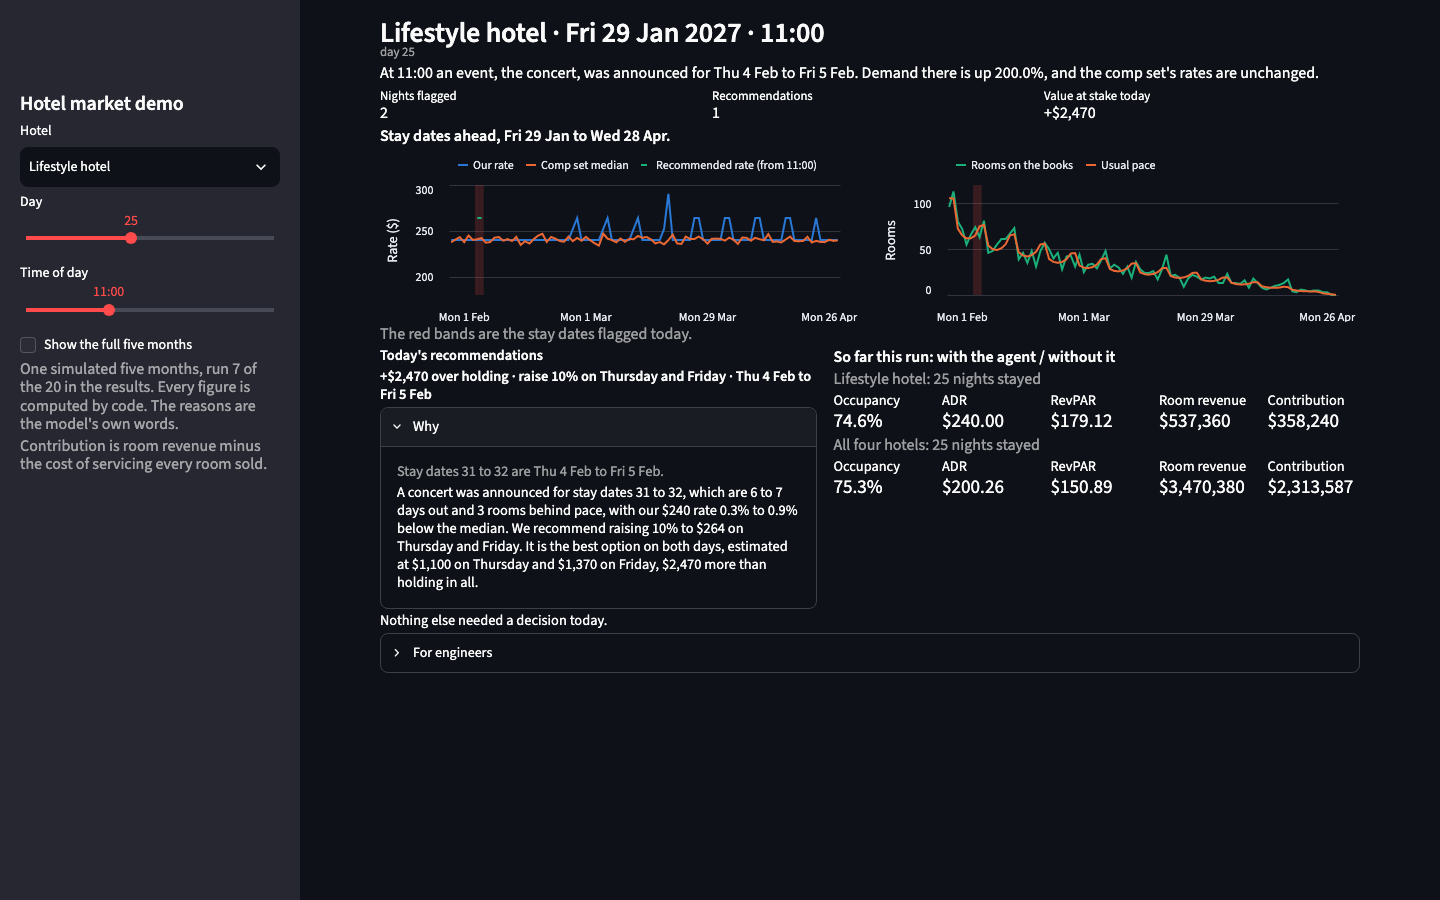
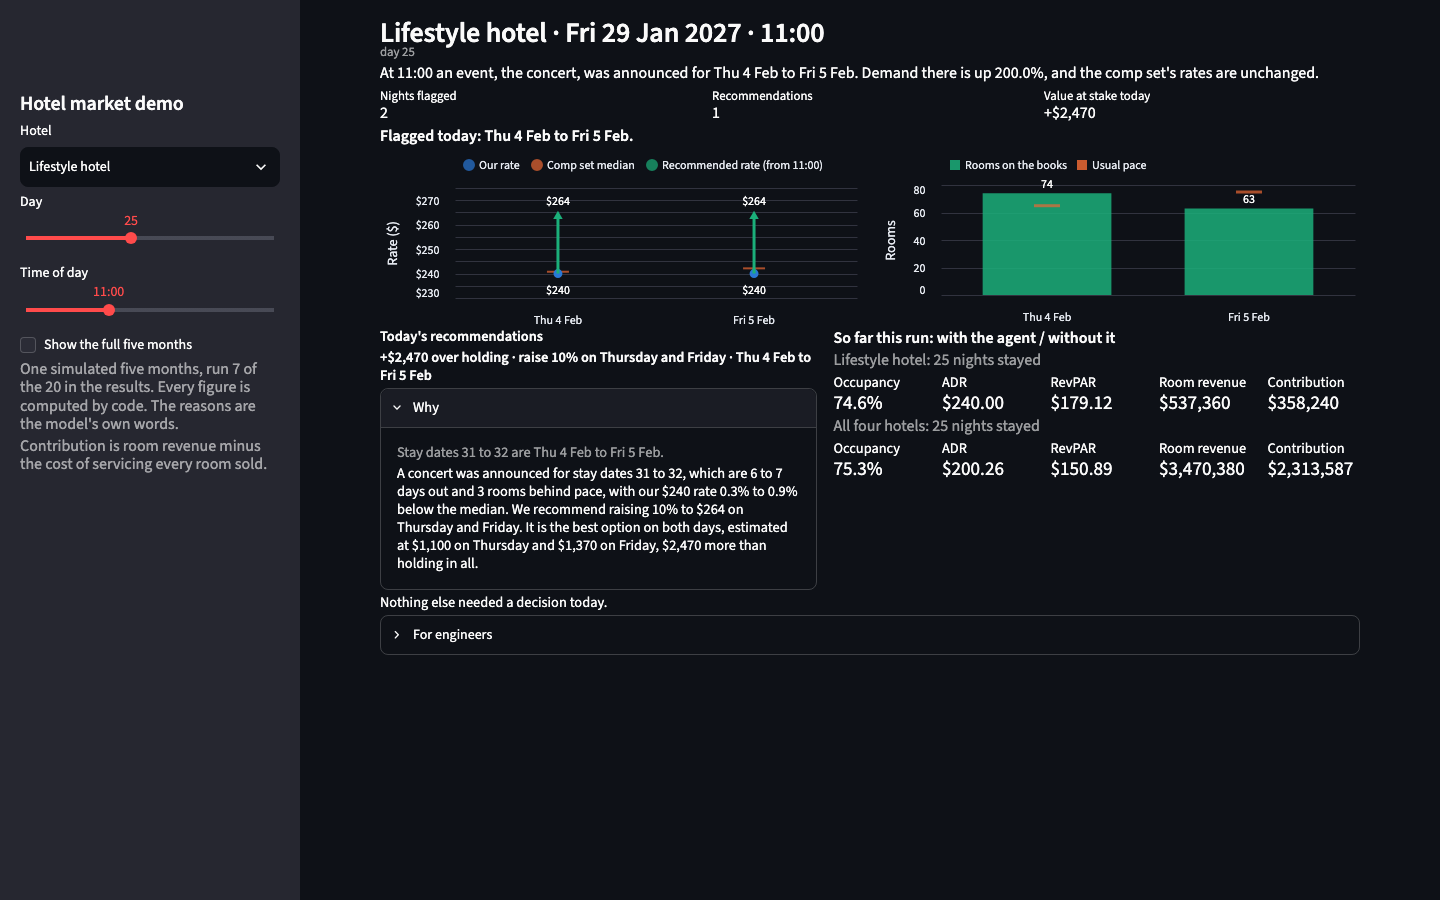
Chart only the nights flagged today, with fitted axes
Both charts now show the nights the day's news touched, or the next two
weeks on a quiet day. Rates are dots or lines with an arrow to each
recommended rate, and rooms are bars against the usual pace.

Changed region(s): [[0.25, 0.1244, 0.9375, 0.7467]]

diff --git a/src/hotel_market/demo_page.py b/src/hotel_market/demo_page.py
@@ -10,8 +10,10 @@ imports anything from the package or does arithmetic on a figure. The sidebar pi
 one day, and the query string can name them (?hotel=convention&day=10). The sidebar also says
 which of the results' runs this is, marks the stand-in's reasons when the file holds any, and
 defines contribution. Under the title and the day's number come what became known that day and
-three tiles: the nights flagged, the recommendations and their value at stake together. The page
-then shows the stay dates ahead as two charts side by side, the day's recommendations and the
+three tiles: the nights flagged, the recommendations and their value at stake together. Two
+charts follow, side by side, for the nights flagged so far that day, or the next two weeks when
+none was: our rate, the comp set median and each recommended change as an arrow, and the rooms
+on the books as bars against the usual pace. Then come the day's recommendations and the
 scorecard: the nights already stayed for the hotel and for all the hotels together. Each
 recommendation is one line led by its value at stake. Where the stored request listed the
 hotel's earlier changes on a plan's stay dates, the next line shows them under "Since our last
@@ -52,6 +54,8 @@ PLOT_HEIGHTS = {
     "small": 50,
 }  # the plot areas, in pixels: a stay-date chart, the small line
 AXIS_LABEL_SIZE = 12  # the axes' tick labels, in points
+_NEXT_NIGHTS = 14  # the nights the charts show on a day that flagged none
+_LABELLED_NIGHTS = 7  # up to this many nights, the charts print each value
 TILE_SIZES = {
     "compact": (0.75, 1.1),
     "large": (0.9, 1.2),
@@ -137,7 +141,7 @@ def _axis(order: list[str], ticks: list[str]) -> alt.X:
             labelOverlap=True,
             labelSeparation=8,
         ),
-        scale=alt.Scale(paddingInner=0, paddingOuter=0),
+        scale=alt.Scale(paddingInner=0.25, paddingOuter=0.15),
     )
 
 
@@ -146,13 +150,15 @@ def _y(field: str, title: str | None, **axis) -> alt.Y:
     return alt.Y(field, title=title, axis=alt.Axis(labelFontSize=AXIS_LABEL_SIZE, **axis))
 
 
-def _legend(label_expr: str | None = None, orient: str = "top") -> alt.Legend:
+def _legend(
+    label_expr: str | None = None, orient: str = "top", symbol: str = "stroke"
+) -> alt.Legend:
     """A legend above the plot, off the lines, with stroke symbols that show a dash. Its labels are
     the axes' size, so "Recommended rate (from 11:00)" fits beside the other two."""
     legend = alt.Legend(
         orient=orient,
         title=None,
-        symbolType="stroke",
+        symbolType=symbol,
         symbolStrokeWidth=2,
         offset=6,
         labelLimit=240,
@@ -282,7 +288,7 @@ def main() -> None:
         tiles[1].metric("Recommendations", strip["recommendations"])
         tiles[2].metric("Value at stake today", strip["value_at_stake"])
 
-    # ---- the stay dates ahead -------------------------------------------------------------------
+    # ---- the nights today's news touched --------------------------------------------------------
     stays = rows(
         "SELECT stay_day, label, tick, rate, comp_median, rooms_on_books, pace, flagged, "
         "causes, flag, planned_rate, decided_at FROM stay_dates WHERE as_of_day = ? AND hotel = ? "
@@ -291,79 +297,133 @@ def main() -> None:
         key,
         tick,
     )
-    axis = _axis(stays["label"].tolist(), stays.loc[stays["tick"], "label"].tolist())
     flagged = stays.loc[stays["flagged"]]
-    planned = stays.loc[stays["planned_rate"].notna()].assign(line="planned_rate")
-    marks = (
-        alt.Chart(flagged)
-        .mark_rect(color=COLORS["red"], opacity=0.2)
-        .encode(x=axis, tooltip=[alt.Tooltip("label:N", title="Flagged"), "causes:N"])
-    )
-    # The planned rate joins the lines and the legend only on a day with an accepted plan.
-    rate_lines = {
-        "rate": ("Our rate", "blue", [1, 0]),
-        "comp_median": ("Comp set median", "orange", [1, 0]),
-    }
-    if not planned.empty:
-        decided_at = planned.iloc[0]["decided_at"]  # "14:00" on a finer clock, else empty
-        label = f"Recommended rate (from {decided_at})" if decided_at else "Recommended rate"
-        rate_lines["planned_rate"] = (label, "aqua", [6, 4])
-    rate_series = _series(rate_lines)
-    dollars = _y("dollars:Q", "Rate ($)")
-    dollars["scale"] = alt.Scale(
-        domain=[float(hotel["rate_axis_low"]), float(hotel["rate_axis_high"])]
-    )
+    # The charts show the nights flagged so far today, so the day's change fills them; a day that
+    # flagged none shows the next two weeks.
+    shown = stays.head(_NEXT_NIGHTS) if flagged.empty else flagged
+    labels = shown["label"].tolist()
+    span = labels[0] if len(labels) == 1 else f"{labels[0]} to {labels[-1]}"
+    few = len(labels) <= _LABELLED_NIGHTS  # few enough nights to mark and print each one
+    axis = _axis(labels, labels)
+    planned = shown.loc[shown["planned_rate"].notna()]
+    moved = planned.loc[planned["planned_rate"] != planned["rate"]]  # the nights a plan changes
     stay_date = alt.Tooltip("label:N", title="Stay date")
-    rates = (
-        alt.Chart(stays)
-        .transform_fold(["rate", "comp_median"], as_=["line", "dollars"])
-        .mark_line(strokeWidth=2, clip=True)
-        .encode(
-            x=axis,
-            y=dollars,
-            tooltip=[stay_date, alt.Tooltip("dollars:Q", format="$,.0f")],
-            **rate_series,
+    money = {"format": "$,.0f"}
+    # Our rate and the market's median, as dots and dashes on a few nights and as lines on many,
+    # and each recommended change as an arrow from our rate to the new one. The axis fits the
+    # nights, with room above and below, so a 5% move shows.
+    names = {"rate": "Our rate", "comp_median": "Comp set median"}
+    if not moved.empty:  # once the rate has moved, our rate shows it and the arrow goes
+        decided_at = moved.iloc[0]["decided_at"]  # "14:00" on a finer clock, else empty
+        names["planned_rate"] = (
+            f"Recommended rate (from {decided_at})" if decided_at else "Recommended rate"
         )
+    colors = {"rate": "blue", "comp_median": "orange", "planned_rate": "aqua"}
+    series = alt.Color(
+        "series:N",
+        scale=alt.Scale(domain=list(names.values()), range=[COLORS[colors[key]] for key in names]),
+        legend=_legend(symbol="circle"),
     )
-    layers = [marks, rates]
-    if not planned.empty:
-        layers.append(
-            alt.Chart(planned)
-            .mark_line(strokeWidth=2, clip=True)
-            .encode(
-                x=axis,
-                y=_y("planned_rate:Q", "Rate ($)"),
-                detail="flag:N",
-                tooltip=[
-                    stay_date,
-                    alt.Tooltip("planned_rate:Q", title="Planned", format="$,.0f"),
-                ],
-                **rate_series,
+    dollars = alt.Y(
+        "rate:Q",
+        title="Rate ($)",
+        scale=alt.Scale(zero=False, nice=True, padding=20),
+        axis=alt.Axis(labelFontSize=AXIS_LABEL_SIZE, tickCount=8, **money),
+    )
+    ours = alt.Chart(shown.assign(series=names["rate"]))
+    market = alt.Chart(shown.assign(series=names["comp_median"]))
+    our_tip = [stay_date, alt.Tooltip("rate:Q", title="Our rate", **money)]
+    market_tip = [stay_date, alt.Tooltip("comp_median:Q", title="Comp set median", **money)]
+    if few:
+        layers = [
+            market.mark_tick(thickness=2, size=22).encode(
+                x=axis, y=alt.Y("comp_median:Q"), color=series, tooltip=market_tip
+            ),
+            ours.mark_point(filled=True, size=80, opacity=1).encode(
+                x=axis, y=dollars, color=series, tooltip=our_tip
+            ),
+            ours.mark_text(dy=16, fontSize=AXIS_LABEL_SIZE, color="white").encode(
+                x=axis, y=alt.Y("rate:Q"), text=alt.Text("rate:Q", **money)
+            ),
+        ]
+    else:
+        layers = [
+            market.mark_line(strokeWidth=1.5, opacity=0.8).encode(
+                x=axis, y=alt.Y("comp_median:Q"), color=series, tooltip=market_tip
+            ),
+            ours.mark_line(strokeWidth=2.5).encode(
+                x=axis, y=dollars, color=series, tooltip=our_tip
+            ),
+        ]
+    if not moved.empty:
+        chosen = alt.Chart(moved.assign(series=names["planned_rate"]))
+        layers.extend(
+            [
+                chosen.mark_rule(strokeWidth=3).encode(
+                    x=axis, y="rate:Q", y2="planned_rate:Q", color=series
+                ),
+                chosen.mark_point(filled=True, size=90, shape="triangle-up", opacity=1).encode(
+                    x=axis,
+                    y=alt.Y("planned_rate:Q"),
+                    color=series,
+                    tooltip=[
+                        stay_date,
+                        alt.Tooltip("rate:Q", title="Our rate", **money),
+                        alt.Tooltip("planned_rate:Q", title="Recommended", **money),
+                    ],
+                ),
+            ]
+        )
+        if few:
+            layers.append(
+                chosen.mark_text(dy=-14, fontSize=AXIS_LABEL_SIZE, color="white").encode(
+                    x=axis, y=alt.Y("planned_rate:Q"), text=alt.Text("planned_rate:Q", **money)
+                )
+            )
+    # The rooms on the books as bars, and the usual pace by now as a dash on each bar on a few
+    # nights and as a line on many.
+    kinds = {"rooms_on_books": "Rooms on the books", "pace": "Usual pace"}
+    paced = alt.Color(
+        "series:N",
+        scale=alt.Scale(domain=list(kinds.values()), range=[COLORS["aqua"], COLORS["orange"]]),
+        legend=_legend(symbol="square"),
+    )
+    rooms_y = alt.Y(
+        "rooms_on_books:Q",
+        title="Rooms",
+        scale=alt.Scale(domainMin=0, nice=True),
+        axis=alt.Axis(labelFontSize=AXIS_LABEL_SIZE, tickCount=5),
+    )
+    booked = alt.Chart(shown.assign(series=kinds["rooms_on_books"]))
+    pace = alt.Chart(shown.assign(series=kinds["pace"]))
+    pace_tip = [stay_date, alt.Tooltip("pace:Q", title="Usual pace", format=",.0f")]
+    rooms = [
+        booked.mark_bar(opacity=0.85).encode(
+            x=axis,
+            y=rooms_y,
+            color=paced,
+            tooltip=[stay_date, alt.Tooltip("rooms_on_books:Q", title="Rooms on the books")],
+        ),
+        pace.mark_tick(thickness=3, size=26).encode(
+            x=axis, y=alt.Y("pace:Q"), color=paced, tooltip=pace_tip
+        )
+        if few
+        else pace.mark_line(strokeWidth=2).encode(
+            x=axis, y=alt.Y("pace:Q"), color=paced, tooltip=pace_tip
+        ),
+    ]
+    if few:
+        rooms.append(
+            booked.mark_text(dy=-9, fontSize=AXIS_LABEL_SIZE, color="white").encode(
+                x=axis, y=alt.Y("rooms_on_books:Q"), text="rooms_on_books:Q"
             )
         )
-    room_series = _series(
-        {
-            "rooms_on_books": ("Rooms on the books", "aqua", [1, 0]),
-            "pace": ("Usual pace", "orange", [1, 0]),
-        }
-    )
-    rooms = (
-        alt.Chart(stays)
-        .transform_fold(["rooms_on_books", "pace"], as_=["line", "rooms"])
-        .mark_line(strokeWidth=2)
-        .encode(
-            x=axis,
-            y=_y("rooms:Q", "Rooms"),
-            tooltip=[stay_date, alt.Tooltip("rooms:Q", format=",.0f")],
-            **room_series,
-        )
-    )
-    st.markdown(f"**Stay dates ahead, {plain(today['stay_window'])}.**")
+    heading = "Nothing flagged today. The next two weeks" if flagged.empty else "Flagged today"
+    st.markdown(f"**{heading}: {plain(span)}.**")
     left, right = st.columns(2)
     height = PLOT_HEIGHTS["chart"]
     left.altair_chart(_sized(alt.layer(*layers), height), width="stretch")
-    right.altair_chart(_sized(alt.layer(marks, rooms), height), width="stretch")
-    st.caption("The red bands are the stay dates flagged today.")
+    right.altair_chart(_sized(alt.layer(*rooms), height), width="stretch")
 
     # ---- today's recommendations and the scorecard, side by side ------------------------------
     queue = rows(

diff --git a/tests/test_demo_page.py b/tests/test_demo_page.py
@@ -36,9 +36,8 @@ SIDEBAR = (  # the seed's place among the results' runs
 STAND_IN = "Reasons marked * are the stand-in's, not the model's."
 STRIP = ["Nights flagged", "Recommendations", "Value at stake today"]
 AIRPORT_STAYS = "Stay dates 50 to 109 are Tue 23 Feb to Fri 23 Apr."  # its numbers, dated
-RED_BANDS = "The red bands are the stay dates flagged today."
 # The program's words, which only the engineers' expander may show. "flagged" is the exception,
-# in the strip's label and the charts' caption, so "flag" matches only as a word of its own.
+# in the strip's label and the charts' heading, so "flag" matches only as a word of its own.
 PROGRAMS_WORDS = re.compile(
     r"\b(?:seeds?|ticks?|digests?|fixed-rate|templates?|stand-in|queue[sd]?|flags?|files?)\b",
     re.IGNORECASE,
@@ -138,7 +137,7 @@ def test_the_page_shows_the_airport_hotel_on_day_20(demo_file, monkeypatch):
         "The airlines filed a schedule change: arriving passengers are up 12.8% to 23.0% for "
         "Tue 23 Feb to Wed 2 Jun."
     ) in text
-    assert "**Stay dates ahead, Sun 24 Jan to Fri 23 Apr.**" in text
+    assert "**Flagged today: Tue 23 Feb to Fri 23 Apr.**" in text  # the charts' nights
     assert "**Today's recommendations**" in text and "Today's queue" not in text
     assert AIRPORT_HEADLINE in text
     # The model's reason sits in a closed expander under its plan, after the stay dates'
@@ -150,16 +149,15 @@ def test_the_page_shows_the_airport_hotel_on_day_20(demo_file, monkeypatch):
     assert "Nothing else needed a decision today." in text
     assert [expander.label for expander in page.expander] == ["Why", "For engineers"]
     assert "Since our last change" not in text  # the airport's request listed no earlier change
-    # The recommended rate is a dashed line in its own colour, with a legend entry.
+    # Each recommended change is an arrow in its own colour, with a legend entry.
     spec = _rate_chart_spec(page)
     assert '"planned_rate"' in spec and "#1baf7a" in spec and "#2a78d6" in spec
-    assert (
-        "'Recommended rate'" in spec and "'Usual pace'" in page.get("vega_lite_chart")[1].proto.spec
-    )
+    assert '"Recommended rate"' in spec
+    assert '"Usual pace"' in page.get("vega_lite_chart")[1].proto.spec
     # The scorecard: the nights already stayed for the hotel and for all four, each labelled;
     # five tiles each, and no chip on a change that rounds to nothing. The five months are off.
     stayed = ["Airport hotel: 20 nights stayed", "All four hotels: 20 nights stayed"]
-    captions = ["day 20", RED_BANDS, AIRPORT_STAYS]
+    captions = ["day 20", AIRPORT_STAYS]
     assert [caption.value for caption in page.main.caption] == [*captions, *stayed]
     labels = ["Occupancy", "ADR", "RevPAR", "Room revenue", "Contribution"]
     assert [metric.label for metric in page.metric] == STRIP + labels * 2
@@ -272,7 +270,7 @@ def test_at_four_ticks_the_day_20_page_names_the_times_of_day_in_the_news_and_th
     monkeypatch, tmp_path_factory
 ):
     """The airport hotel's day-20 page on a four-tick file: the news line names the filing's time
-    of day and the decision's with the raise's stay dates and what they earned, and the
+    of day and the decision's with the raise's stay dates and what they earned, and at 14:00 the
     recommended rate's legend entry names the time it was decided at. The stand-in answers this
     file's requests, so the sidebar says so and each reason carries its mark."""
     testing = pytest.importorskip("streamlit.testing.v1")
@@ -286,7 +284,6 @@ def test_at_four_ticks_the_day_20_page_names_the_times_of_day_in_the_news_and_th
     assert "At 14:00 the airlines filed a schedule change: arriving passengers are" in text
     assert "The first flag rose at 14:00, and the first raise was accepted at 14:00" in text
     assert "against the fixed-rate run." in text
-    assert "Recommended rate (from 14:00)" in _rate_chart_spec(page)
     # The recording at this clock is the intraday market's, so the template answers, and the
     # sidebar marks its reasons.
     assert [caption.value for caption in page.sidebar.caption] == [
@@ -295,6 +292,7 @@ def test_at_four_ticks_the_day_20_page_names_the_times_of_day_in_the_news_and_th
         "Contribution is room revenue minus the cost of servicing every room sold.",
     ]
     page = _page(testing, monkeypatch, file, hotel="airport", day=20, tick=3)
+    assert "Recommended rate (from 14:00)" in _rate_chart_spec(page)  # before the rate moves
     reasons = [block.value for e in page.expander if e.label == "Why" for block in e.markdown]
     assert reasons and all(reason.endswith(" *") for reason in reasons)
 
@@ -314,6 +312,7 @@ def test_the_tick_slider_shows_the_state_as_of_a_tick(demo_file_intraday, demo_f
     assert page.sidebar.select_slider[0].value == "08:00"
     text = _text(page)
     assert "Nothing new has become known yet today." in text
+    assert "**Nothing flagged today. The next two weeks: Fri 29 Jan to Thu 11 Feb.**" in text
     assert "No recommendation today." in text and '"planned_rate"' not in _rate_chart_spec(page)
     page.sidebar.select_slider[0].set_value("11:00")
     page.run()
@@ -321,6 +320,7 @@ def test_the_tick_slider_shows_the_state_as_of_a_tick(demo_file_intraday, demo_f
     assert page.subheader[0].value.endswith(" · 11:00")
     text = _text(page)
     assert "At 11:00 an event, the concert, was announced" in text
+    assert "**Flagged today: Thu 4 Feb to Fri 5 Feb.**" in text  # the charts show those nights
     assert (
         "**+\\$2,470 over holding · raise 10% on Thursday and Friday · Thu 4 Feb to Fri 5 Feb**"
         in text
@@ -341,7 +341,7 @@ def test_the_engineers_expander_is_the_only_place_the_programs_words_appear(demo
     """The day-20 pages of the daily file speak to a revenue executive: outside the closed
     expander for engineers no text names the seed, a tick, a digest, the fixed-rate run, the
     template or the stand-in, the queue, a flag or the file. "flagged", in the strip's label and
-    the charts' caption, is the one exception, and the stand-in's caption shows only on a file
+    the charts' heading, is the one exception, and the stand-in's caption shows only on a file
     the stand-in answered. The expander names them."""
     testing = pytest.importorskip("streamlit.testing.v1")
     for hotel in ("airport", "lifestyle"):
@@ -349,7 +349,8 @@ def test_the_engineers_expander_is_the_only_place_the_programs_words_appear(demo
         shown = _shown(page)
         found = [word for text in shown for word in PROGRAMS_WORDS.findall(text)]
         assert not found, found
-        assert any(text.startswith("Nights flagged") for text in shown) and RED_BANDS in shown
+        assert any(text.startswith("Nights flagged") for text in shown)
+        assert "**Flagged today: Tue 23 Feb to Fri 23 Apr.**" in shown
         engineers = [e for e in page.expander if e.label == "For engineers"]
         assert len(engineers) == 1 and not engineers[0].proto.expanded
         inside = _shown(page, engineers=True)

diff --git a/kg/decisions.md b/kg/decisions.md
@@ -614,7 +614,7 @@ design keeps its node, marked [H], and names the decision that replaced it.
 ### DEC-58 [C] The demo page fits one window, and every date is a calendar date
 - Decided: the page fits 1440 by 900 pixels with nothing cut off, from the title to the engineers' expander. scripts/demo_screenshots.py ([[MOD-28]]) measures every hotel on seven days, and four days at every tick.
 - Dates: every date reads as a calendar date with its day of the week, such as "Thu 18 Feb" ([[DAT-33]]). The day's number sits small under the title. The recorded reasons keep their day numbers.
-- Plan: on the day a plan is accepted, the rate chart draws the new rate as a dashed line beside the current one. A held day of the week keeps the current rate on that line.
+- Plan: the charts show the nights flagged so far today, or the next two weeks. The rate chart draws each accepted change as an arrow from the current rate to the new one.
 - Held: the held flags sit in a closed expander, "Also looked at today". Each shows its stay dates, its cause, the best alternative and how far it fell short of holding, or of the minimum when its plan beats holding ([[RUL-67]]).
 - Text: the page escapes the markdown marks in every reason and plan, so a pair of dollar amounts is not a formula and a model's text cannot draw a link. A tile draws no chip for a change that rounds to nothing.
 - Layout: the charts sit side by side, the recommendations beside the scorecard, and the toolbar is hidden. The five months sit behind a checkbox, off by default. Smaller text and tighter lines let a busy day fit.

diff --git a/kg/modules.md b/kg/modules.md
@@ -260,7 +260,7 @@ which is also the order in which they depend on each other.
 ### MOD-27 [C] demo_page.py
 - File: src/hotel_market/demo_page.py
 - Owns: the read-only demo page ([[DEC-57]], [[DEC-58]]) over [[DAT-33]]. On a finer clock, the sidebar picks a time of day ([[RUL-133]], [[RUL-134]]). The news opens the page, then a strip of three tiles. An engineers' expander closes it.
-- Charts: one chart shows our rate, the comp set median and the recommended rate, dashed aqua. The other shows the rooms on the books against the usual pace. The recommended rate joins the legend only with an accepted plan.
+- Charts: both show the nights flagged so far today, or the next two weeks. One shows our rate, the comp set median and each recommended change as an arrow. The other shows the rooms on the books as bars against the usual pace.
 - Queue: each recommendation is one line that leads with the money. The stored request's earlier changes follow with dates. Its reason sits closed under Why. The held flags sit closed.
 - Scorecard: the nights already stayed for the hotel and for all together, as five large tiles each. With the checkbox on, the five months' tiles follow each, in a compact size, then the small line. A zero change has no chip.
 - Holds: the file, parameter, plot, tile, colour and mark constants, FILE_VARIABLE to REASON_MARKS ([[RUL-105]], [[RUL-106]], [[RUL-112]] to [[RUL-123]], [[RUL-133]], [[RUL-134]]), and STYLE.

diff --git a/kg/index.md b/kg/index.md
@@ -8,18 +8,18 @@ nodes and its words, len(text.split()) over the file.
 
 | File | Nodes | Words |
 | --- | ---: | ---: |
-| modules.md | 32 | 4,501 |
+| modules.md | 32 | 4,505 |
 | data.md | 33 | 4,691 |
 | rules.md | 134 | 5,863 |
 | shocks.md | 9 | 1,033 |
 | concepts.md | 12 | 1,370 |
 | measures.md | 14 | 962 |
 | sources.md | 4 | 855 |
-| decisions.md | 71 | 10,602 |
+| decisions.md | 71 | 10,599 |
 | results.md | 45 | 7,681 |
 | forks.md | 14 | 2,037 |
 | unknowns.md | 16 | 2,172 |
-| every node file | 384 | 41,767 |
+| every node file | 384 | 41,768 |
 | index.md | | 2,999 |
 
 ## Modules (`modules.md`)
